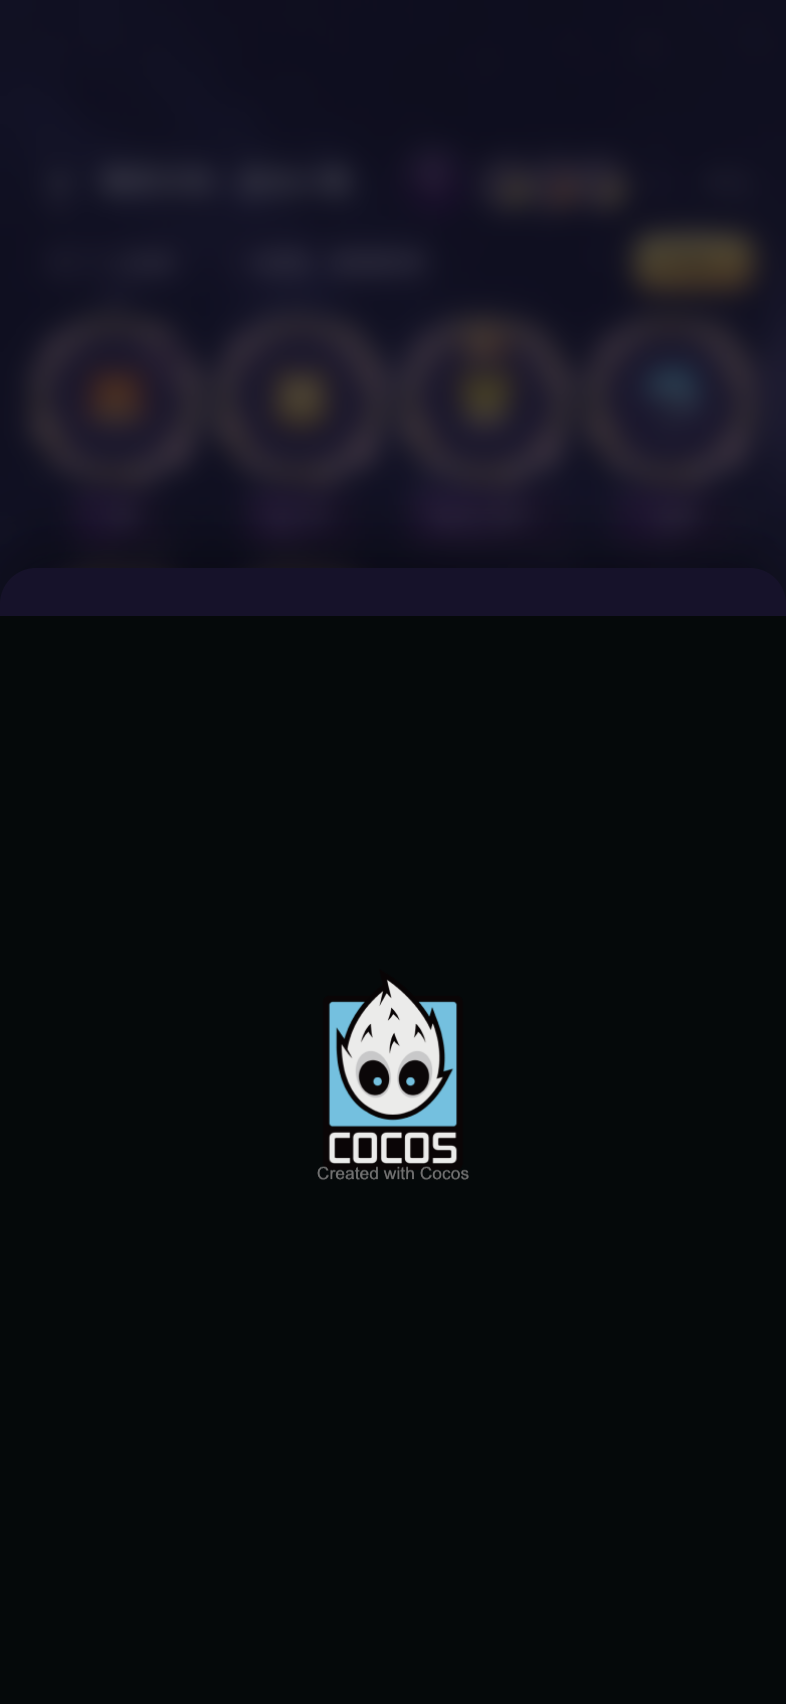
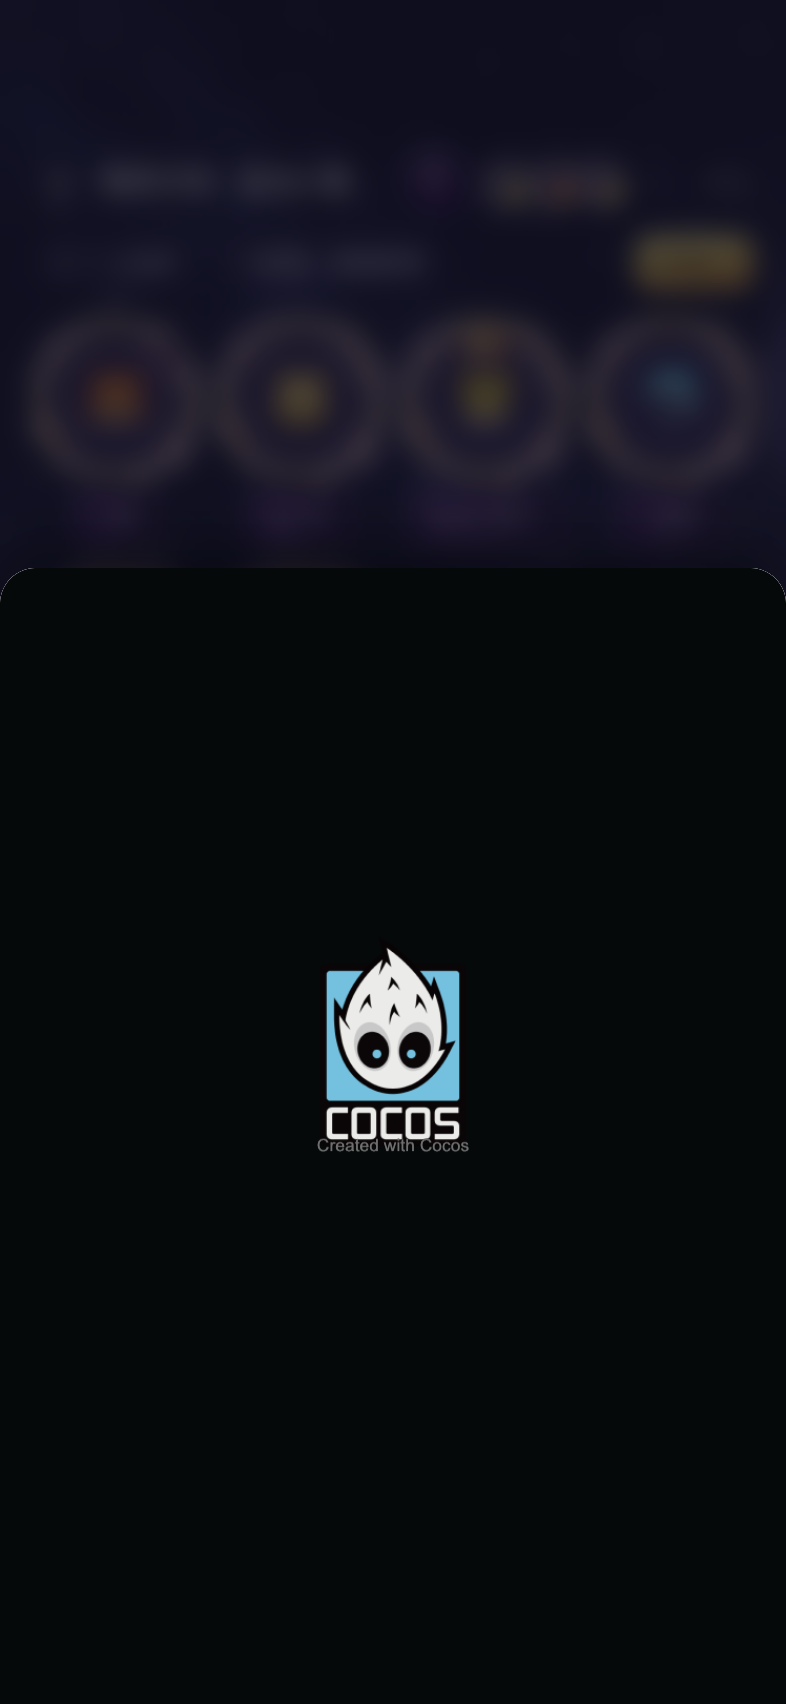
fix(voice): 去掉游戏窗口顶部留白并沉淀选择器校验脚本
游戏窗口顶部有 24px 留白，来自只剩隐藏标题和抓手的 header。改为绝对定位浮在顶部，
游戏画面直接从窗口顶端开始，并关掉 pointer-events 以免这条透明带挡住游戏触摸。
过程中发现是自己的两条规则打架：先前为抓手加的
.voice-action-sheet:not(.voice-management-page) > header { position: relative }
特异性高于游戏窗口那条 absolute，把 header 拉回了文档流，故把游戏窗口排除出该规则。
抓手在深色游戏画面上几乎不可见，改为半透明白加暗描边，深浅底色下都能辨认。

新增 tools/sim/voice/verify-room-selectors.mjs：在本地复现公网 RTC 验收脚本
对房间 DOM 的全部依赖（含点蒙层关闭游戏弹窗的完整链路，与 backend 0773aee 同法）。
起因是本轮删除游戏弹窗关闭按钮导致验收失败并回滚，且 commit 已进 main 连带阻塞他人发布；
该脚本可在推送前就发现同类破坏。

Changed region(s): [[0.0, 0.311, 1.0, 0.3732], [0.3969, 0.5599, 0.6107, 0.7154]]

diff --git a/src/app/voice-reference.css b/src/app/voice-reference.css
@@ -391,7 +391,7 @@ html:has(.voice-room-starry) { background: #292b4b; }
 
 /* 关闭按钮移除后，用 bottom sheet 常见的抓手横条提示"可下滑/点蒙层关闭"。
    整页形态（voice-management-page）压满屏、没有蒙层可点，仍保留左上角返回箭头，不加抓手。 */
-.voice-room-starry .voice-action-sheet:not(.voice-management-page) > header {
+.voice-room-starry .voice-action-sheet:not(.voice-management-page):not(.voice-game-window) > header {
   position: relative;
 }
 .voice-room-starry .voice-action-sheet:not(.voice-management-page) > header::before {
@@ -399,5 +399,12 @@ html:has(.voice-room-starry) { background: #292b4b; }
   border-radius: 2px; background: #d9c48f66; transform: translateX(-50%); content: '';
 }
 /* 游戏窗口的标题是隐藏的，header 只剩抓手，压扁一些把高度让给游戏 */
-.voice-room-starry .voice-game-window > header { min-height: 24px; flex-basis: 24px; }
-.voice-room-starry .voice-game-window > header::before { top: 9px; }
+/* header 里只剩隐藏标题和抓手，让它脱离文档流浮在顶部，游戏画面直接从窗口顶端开始，
+   不再占用 24px 高度。pointer-events 关掉，避免这条透明带挡住游戏的触摸。 */
+.voice-room-starry .voice-game-window > header {
+  position: absolute; top: 0; right: 0; left: 0; z-index: 2;
+  min-height: 0; height: 14px; flex: none; pointer-events: none;
+}
+.voice-room-starry .voice-game-window > header::before {
+  top: 5px; background: #ffffff7a; box-shadow: 0 0 0 1px #00000038;
+}
